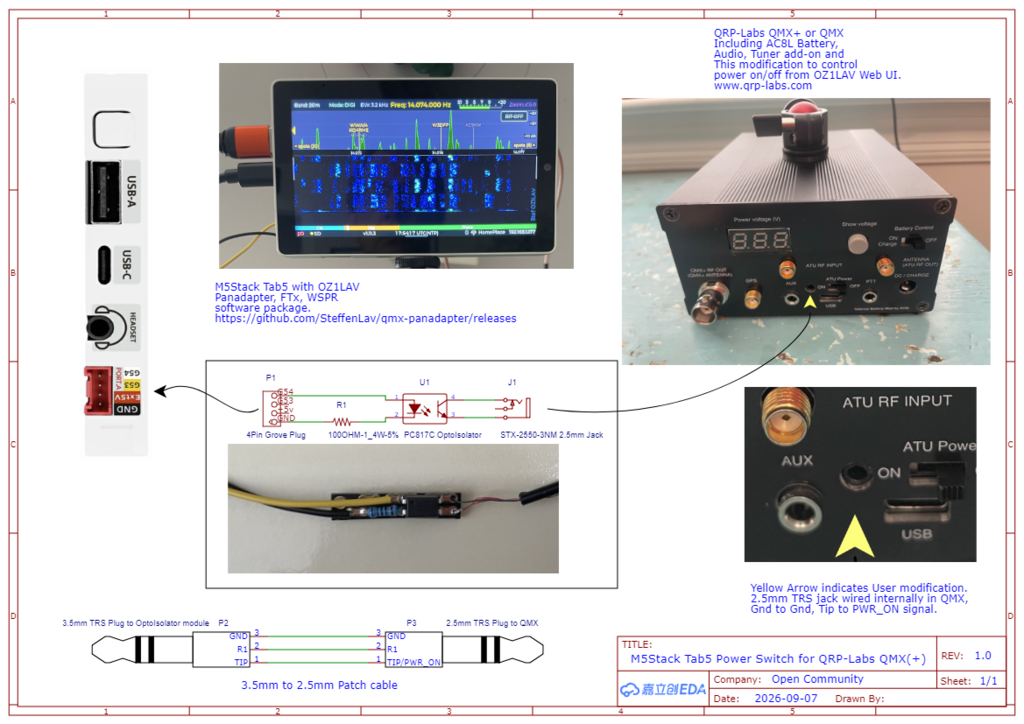
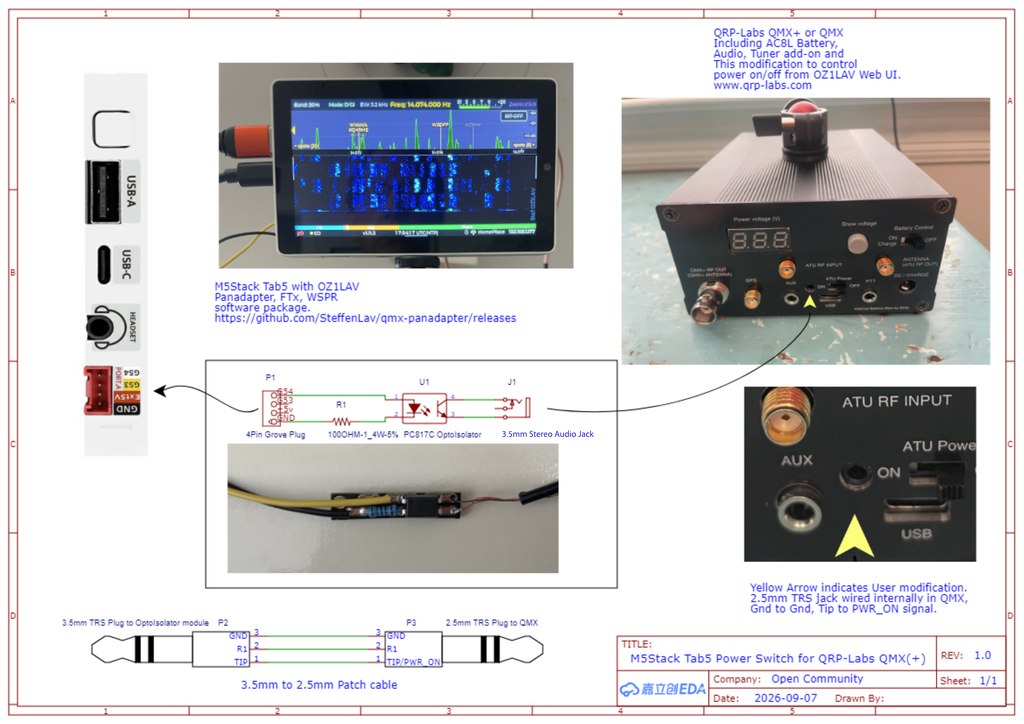
docs: the module's jack is 3.5 mm, not 2.5 mm (Randy N4OPI's correction)
Randy spotted his own error in the schematic after it was published and sent
rev 1.0: J1, the jack on the optoisolator module, is a plain 3.5 mm stereo
audio jack. It was written up as an "STX-2550-3NM 2.5 mm TRS jack", which was
wrong on both the part number and the size.

Only J1 changes. The jack that goes IN THE RADIO is still 2.5 mm - the new
schematic says so itself ("2.5mm TRS jack wired internally in QMX, Gnd to Gnd,
Tip to PWR_ON signal") - and the 3.5 mm to 2.5 mm patch lead between the two
is unchanged. The parts table and the wiring steps now say which jack is which
at every mention, because "the jack" was ambiguous in a job that has two.

Schematic image replaced with rev 1.0, rendered at the same 1024 px width as
the one it supersedes. manual.bin repacked.

diff --git a/README.md b/README.md
@@ -502,9 +502,9 @@ The browser panadapter is a full-featured view in its own right — not just a w
 
 **Building the interface — Randy N4OPI's design**, published here with his permission. Two components and a connector, plus one modification inside the radio.
 
-![Schematic: M5Stack Tab5 power switch for QRP Labs QMX(+) — a 4-pin Grove plug on the Tab5's EXT socket feeds a 100 ohm resistor into a PC817C optoisolator, whose output drives a 2.5 mm TRS jack wired to PWR_ON and GND inside the radio](docs/mkdocs/img/relay-schematic-n4opi.png)
+![Schematic: M5Stack Tab5 power switch for QRP Labs QMX(+) — a 4-pin Grove plug on the Tab5's EXT socket feeds a 100 ohm resistor into a PC817C optoisolator, whose output drives a 3.5 mm stereo jack on the module, reaching a 2.5 mm TRS jack wired to PWR_ON and GND inside the radio through a patch lead](docs/mkdocs/img/relay-schematic-n4opi.png)
 
-The QMX has **no PWR_ON/GND jack from the factory** — fitting one is the job. Wire a **2.5 mm TRS jack** into the case with **tip to PWR_ON and sleeve to GND** (Randy brought his out on the rear panel beside the ATU RF input). Then build the interface: a **4-pin Grove plug** into the Tab5's EXT socket, the chosen pin (**G53** or **G54**) through **R1, 100 Ω ¼ W** into a **PC817C optoisolator**, and the optoisolator's phototransistor across an **STX-2550-3NM 2.5 mm jack**, so a pulse briefly connects PWR_ON to GND. The `EXT 5V` pin is unused, and the phototransistor side is polarity-sensitive — follow the schematic. Randy: *"with just 2 components it could just as easily be connected point to point and sealed up inside a piece of heatshrink tubing. Make sure you insulate your wires so the heatshrink doesn't squeeze them together and create a short."* Settings that work: the pin you wired, active level **High**, **2000 ms**.
+The QMX has **no PWR_ON/GND jack from the factory** — fitting one is the job. Wire a **2.5 mm TRS jack** into the case with **tip to PWR_ON and sleeve to GND** (Randy brought his out on the rear panel beside the ATU RF input). Then build the interface: a **4-pin Grove plug** into the Tab5's EXT socket, the chosen pin (**G53** or **G54**) through **R1, 100 Ω ¼ W** into a **PC817C optoisolator**, and the optoisolator's phototransistor across **J1, a 3.5 mm stereo audio jack** on the module, which reaches the radio's 2.5 mm jack through a **3.5 mm to 2.5 mm TRS patch lead** — so a pulse briefly connects PWR_ON to GND. The `EXT 5V` pin is unused, and the phototransistor side is polarity-sensitive — follow the schematic. Randy: *"with just 2 components it could just as easily be connected point to point and sealed up inside a piece of heatshrink tubing. Make sure you insulate your wires so the heatshrink doesn't squeeze them together and create a short."* Settings that work: the pin you wired, active level **High**, **2000 ms**.
 
 The optoisolator is what keeps the Tab5 and the radio electrically apart, and it is why only **G53/G54** are offered: they sit on a *keyed* connector and are held as driven outputs from boot. The bottom-edge Dupont pins would give a neater cable run, but that connector is unkeyed and sits beside 12 V IN — Randy's own reason for dropping the idea — and `G0`/`G1` are the snap-on keyboard's I2C bus.
 

diff --git a/docs/mkdocs/guide/web-ui.md b/docs/mkdocs/guide/web-ui.md
@@ -358,7 +358,7 @@ the radio attached always leaves the QMX needing a manual power cycle. That one
 step is what otherwise keeps a remote station from being upgradeable from
 another room — or another country.
 
-![Schematic: M5Stack Tab5 power switch for QRP Labs QMX(+) — a 4-pin Grove plug on the Tab5's EXT socket feeds a 100 ohm resistor into a PC817C optoisolator, whose output drives a 2.5 mm TRS jack wired to PWR_ON and GND inside the radio](../img/relay-schematic-n4opi.png)
+![Schematic: M5Stack Tab5 power switch for QRP Labs QMX(+) — a 4-pin Grove plug on the Tab5's EXT socket feeds a 100 ohm resistor into a PC817C optoisolator, whose output drives a 3.5 mm stereo jack on the module, reaching a 2.5 mm TRS jack wired to PWR_ON and GND inside the radio through a patch lead](../img/relay-schematic-n4opi.png)
 
 #### Parts
 
@@ -367,8 +367,8 @@ another room — or another country.
 | P1 | 4-pin Grove plug (HY2.0-4P) | Into the Tab5's side EXT socket. Its four pins are `EXT 5V`, `G53`, `G54`, `GND` |
 | R1 | 100 Ω, ¼ W, 5 % | In series with the optoisolator's LED |
 | U1 | PC817C optoisolator | Keeps the Tab5 and the radio electrically apart — the reason this is safe |
-| J1 | STX-2550-3NM 2.5 mm TRS jack | The output side |
-| — | 3.5 mm to 2.5 mm TRS patch cable | Randy's module ends in 3.5 mm and reaches the radio through a patch lead |
+| J1 | 3.5 mm stereo audio jack | The output side, mounted on the module — **not** the jack that goes in the radio |
+| — | 3.5 mm to 2.5 mm TRS patch cable | Joins the module's 3.5 mm jack to the 2.5 mm jack in the radio. Tip to tip, sleeve to sleeve |
 
 #### Wiring
 
@@ -378,7 +378,7 @@ another room — or another country.
    the QMX. Randy brought his out on the rear panel beside the ATU RF input.
 2. **The interface.** The Tab5 pin you choose — **G53 or G54** — goes through
    **R1** into the PC817C's LED, with the Grove plug's `GND` completing that
-   side. The PC817C's phototransistor goes across the jack's tip and sleeve, so
+   side. The PC817C's phototransistor goes across **J1**, the module's 3.5 mm jack, tip and sleeve, so
    a pulse from the Tab5 briefly connects `PWR_ON` to `GND`. **The
    phototransistor side is polarity-sensitive — follow the schematic**, and note
    that the `EXT 5V` pin is not used at all.
